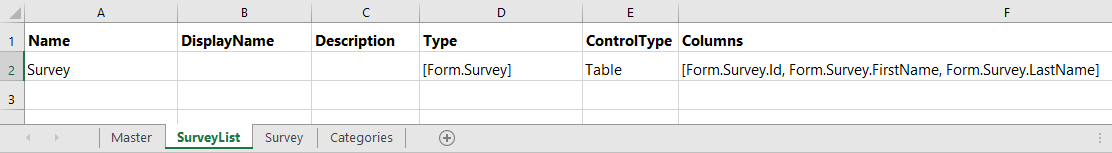
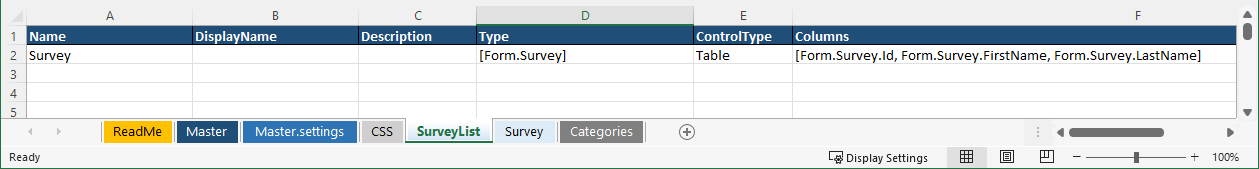
edits to dataportals tutorial on Surveys

diff --git a/docs/Tutorial/DataPortals-Survey.md b/docs/Tutorial/DataPortals-Survey.md
@@ -25,7 +25,7 @@ You may be tempted by using an off-the-shelf, pre-built solution. Google Forms &
 
 ## The DataPortal Model File
 
-We'll be designing a simple survey form. All DataPortals start with a data model that is defined in an Excel workbook. The Excel model file used in this tutorial is available here: <a href="../../Tutorial/img/BlueBikesDataPortal.xlsx" download="BlueBikesDataPortal.xlsx">Download Simple Survey DataPortal Model (xlxs)</a> 
+We'll be designing a simple survey form. All DataPortals start with a data model that is defined in an Excel workbook. The Excel model file used in this tutorial is available here: <a href="../../Tutorial/img/DataPortals_Model_Simple_Survey.xlsx" download="DataPortals_Model_Simple_Survey.xlsx">Download Simple Survey DataPortal Model (xlxs)</a> 
 
 ## The Survey Container Page
 
@@ -109,6 +109,36 @@ Composable has provided us with a fully responsive web-based CRUD (Create, Read,
 
 ![!Composable DataPortals Full, Responsive Web Interface](img/DataPortal_Survey_08.png)
 
+### Optional Styling
+
+The web interface can be styled with custom styling rules, written in CSS, to change the design.
+
+We can add an optional sheet called `CSS` and enter custom CSS rules to style the pages with any colors, margins or other custom style behavior.
+
+![!Composable DataPortals Model File - Optional CSS sheet for custom styling](img/DataPortal_Survey_14.png)
+
+try using the following CSS code:
+
+```css
+".form-field label { font-size: 1.6rem; color: #002d62; } 
+.form-field .radio-list label, .form-boolean-field label { font-size: inherit; color: inherit; }
+.form-boolean-field { padding-top: 0; padding-bottom: 0; }
+.container-group-level-0:not(.tab-container) { background: none; }
+#forms-top-bar-left-group > button.breadcrumb-heading { display: none; }
+.form-label-field { padding-bottom: 0; }
+#subheader.subheader.manulife-bg.manulife-subheader { height: 35px }
+img { vertical-align: middle;    margin: auto}
+.manulife-subheader-separator span{ visibility:hidden }
+.forms-top-bar-right-group { display: none; }
+div:forms-top-bar-left-group.col-md-10 {color:  #002d62; font-size: 3em;}
+h5.container-name-top { font-size: 3em; color: #002d62; }
+.form-app-run-field { text-align: center }"
+```
+
+Our Survey page will now look like this:
+
+![!Composable DataPortals Full, Responsive Web Interface with Custom Styling](img/DataPortal_Survey_13.png)
+
 ## Exploring the Back-end Database
 
 Now that our front-end is taken care of, let's see what Composable generated under the hood to store our responses. 
@@ -138,7 +168,7 @@ We can add some sample data using the DataPortals web interface, and query the t
 
 ## Next Steps
 
-Just like that, we've gone from scratch to a fully operational data modeling and acquisition application with just a few sheets written in Excel. With a bit more effort, you can create much more powerful forms and data models, like the one below, with complex hierarchies, field grouping, dynamic layouts, nested tabbing, complex validation, and more. And, if you don't like the way it looks, you can change the design yourself. Simply, add an optional sheet called `CSS` and enter custom CSS rules to style the pages with any colors, margins or other custom style behavior.
+Just like that, we've gone from scratch to a fully operational data modeling and acquisition application with just a few sheets written in Excel. With a bit more effort, you can create much more powerful forms and data models, like the one below, with complex hierarchies, field grouping, dynamic layouts, nested tabbing, complex validation, and more.
 
 DataPortals can be also referenced in other Composable product areas. Create [QueryViews](../QueryViews/01.Overview.md) to query the data or Create [DataFlows](../DataFlows/01.Overview.md) that define full analytical workflows utilizing the data.
 
